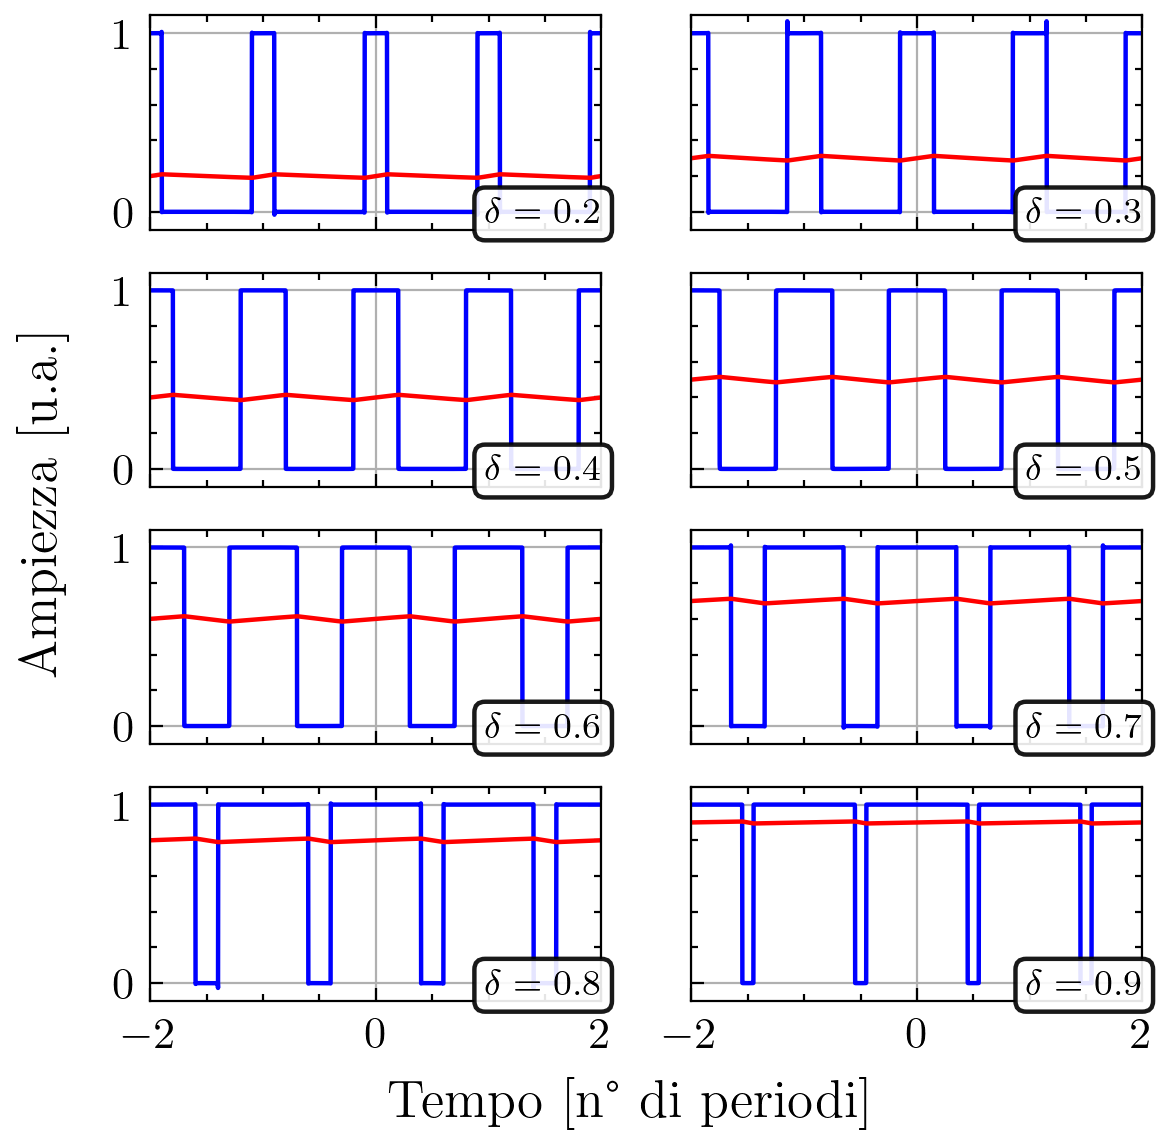
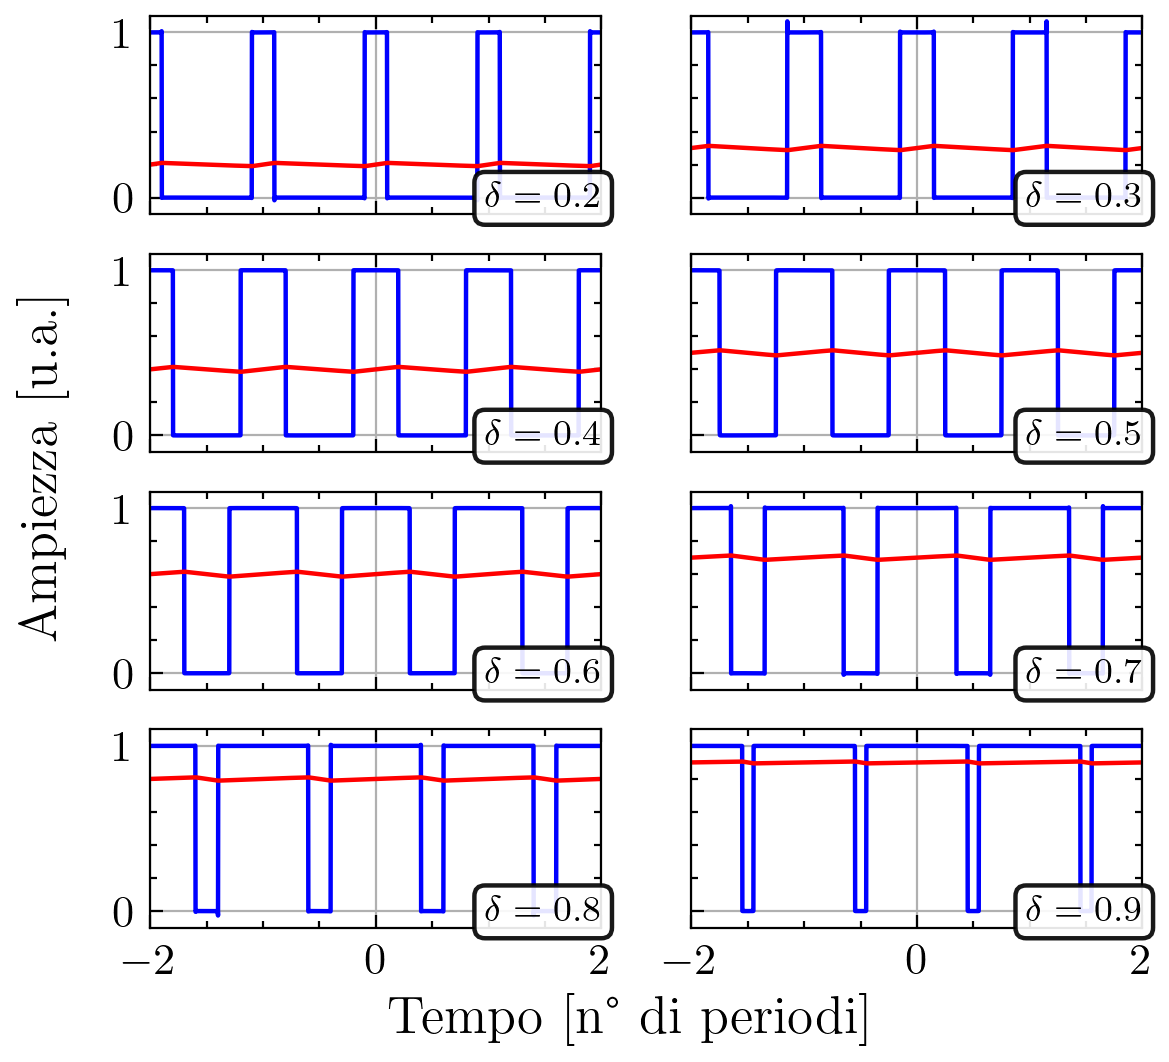
change figsize

diff --git a/lab2/fourier_numerical_reconstruction/pulse_train.py b/lab2/fourier_numerical_reconstruction/pulse_train.py
@@ -16,8 +16,8 @@ plt.style.use(["science"])
 props = dict(boxstyle='round', facecolor='white', alpha=0.9)
 
 # init figures
-fig_pulsetrain = plt.figure(1, figsize=(4, 4), dpi=320) # pulse train figure
-fig_integrator = plt.figure(2, figsize=(4, 4), dpi=320) # pulse train through differentiator
+fig_pulsetrain = plt.figure(1, figsize=(4, 3.7), dpi=320) # pulse train figure
+fig_integrator = plt.figure(2, figsize=(4, 3.7), dpi=320) # pulse train through differentiator
 
 # init subplots
 axes_p = fig_pulsetrain.subplots(nrows=4, ncols=2, sharex=True, sharey=True)
